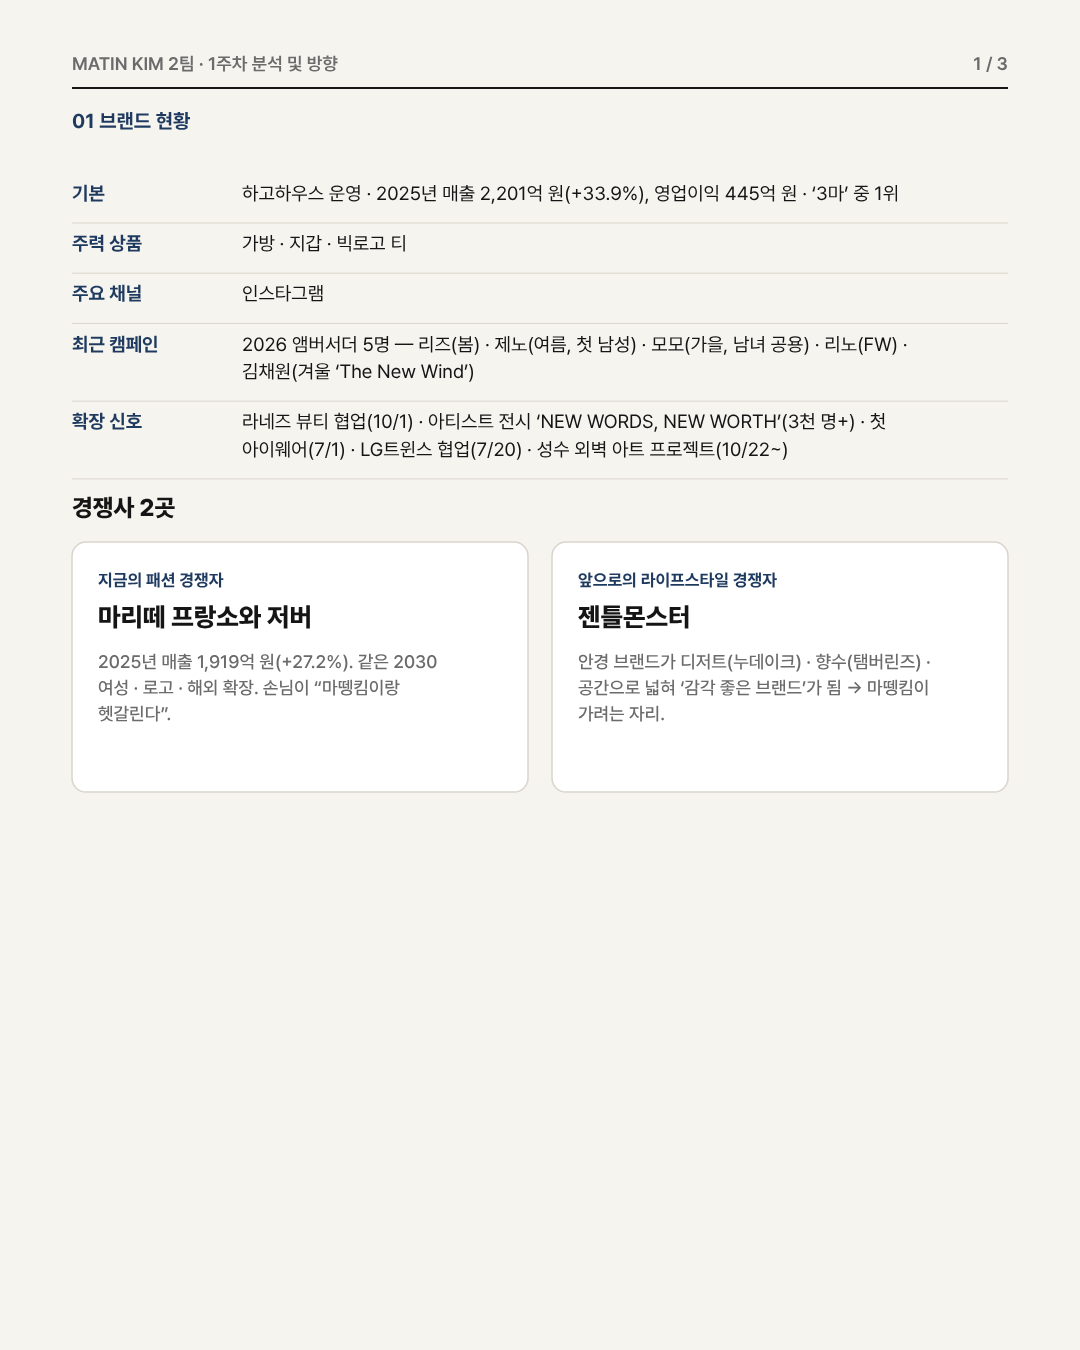
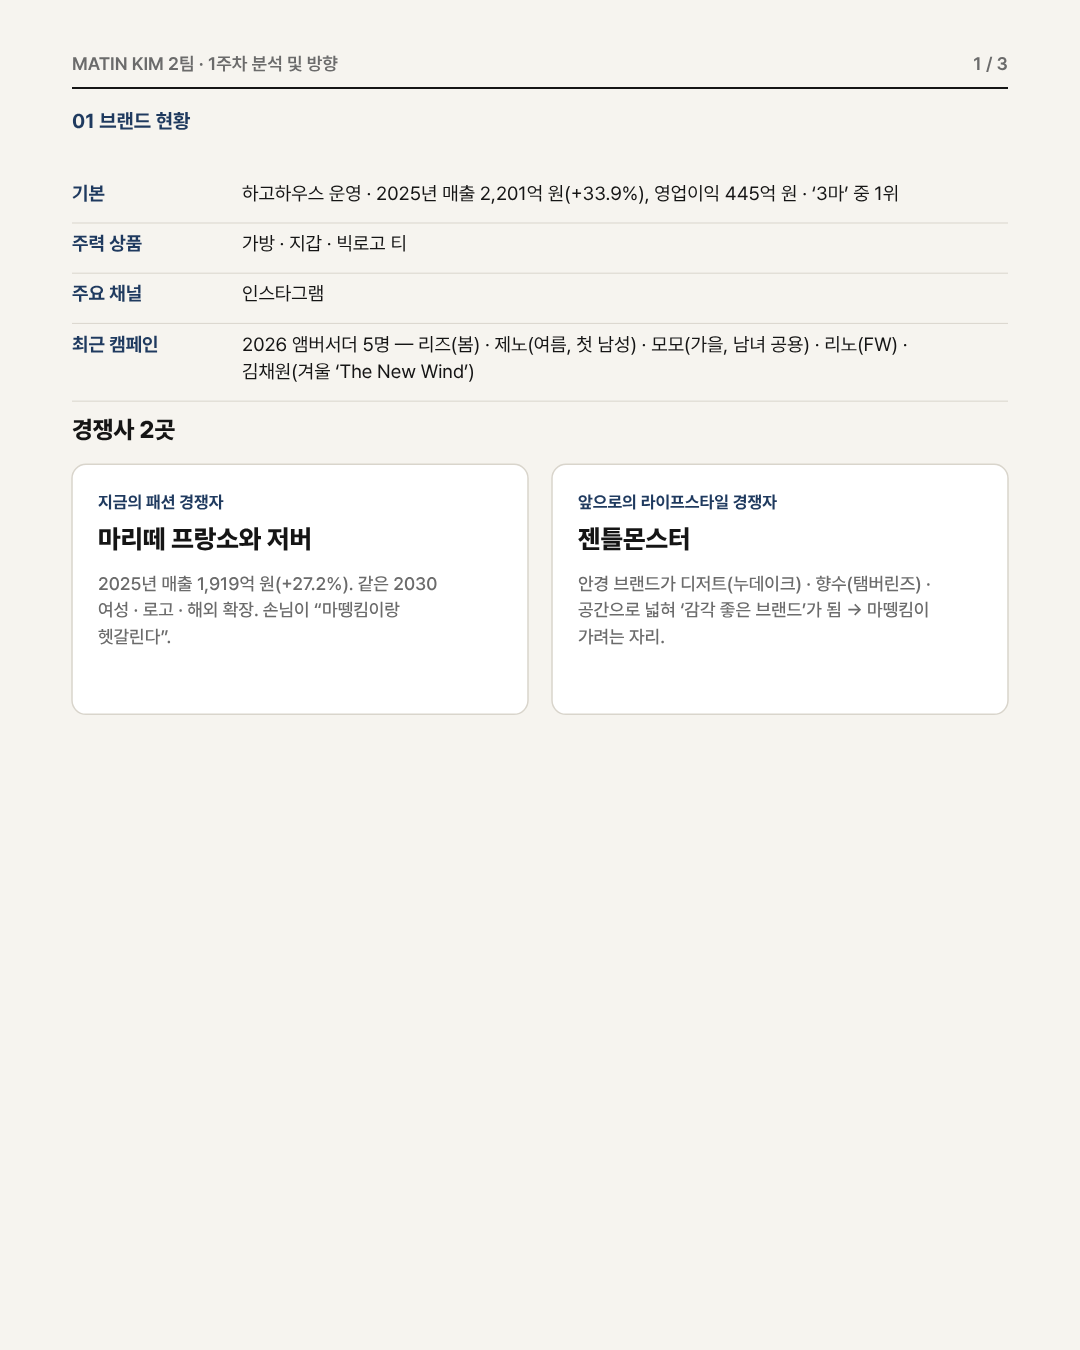
마뗑킴 1주차 1장에서 확장 신호 줄을 뺌
Claude-Session: https://claude.ai/code/session_01VwLjVAGVevWminy8McjiU3

Changed region(s): [[0.2139, 0.3111, 0.8556, 0.5289], [0.0611, 0.3111, 0.3972, 0.5289]]

diff --git a/개인공부/마케팅교육/마뗑킴_1주차_제출.md b/개인공부/마케팅교육/마뗑킴_1주차_제출.md
@@ -13,7 +13,6 @@
 | 주력 상품 | 가방 · 지갑 · 빅로고 티 |
 | 주요 채널 | 인스타그램 |
 | 최근 캠페인 (2026) | 앰버서더 5명: 리즈(봄) · 제노(여름, 첫 남성) · 모모(가을, 남녀 공용) · 리노(FW) · 김채원(겨울 'The New Wind') |
-| 라이프스타일 신호 | 라네즈 뷰티 협업(10/1) · 아티스트 전시 'NEW WORDS, NEW WORTH'(3천 명+) · 첫 아이웨어(7/1) · LG트윈스 협업(7/20) · 성수 외벽 아트 프로젝트(10/22~) |
 
 **경쟁사 2곳**
 
